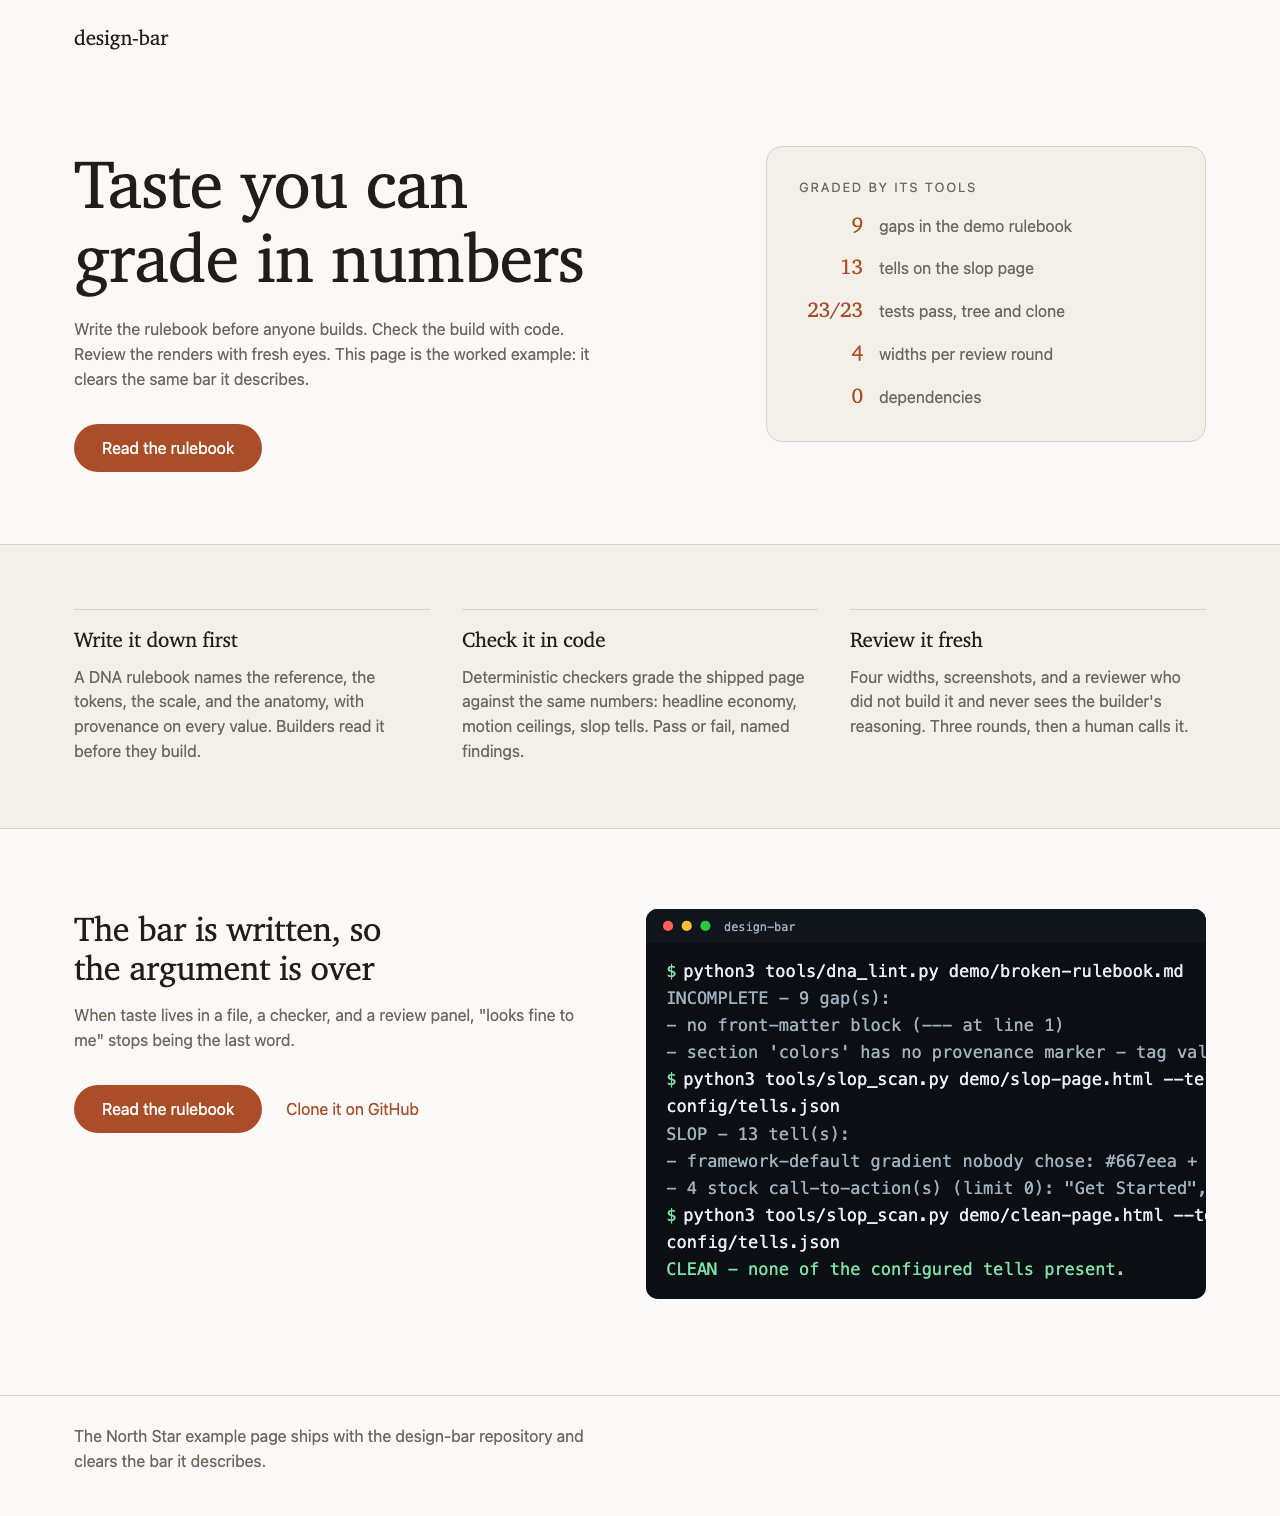
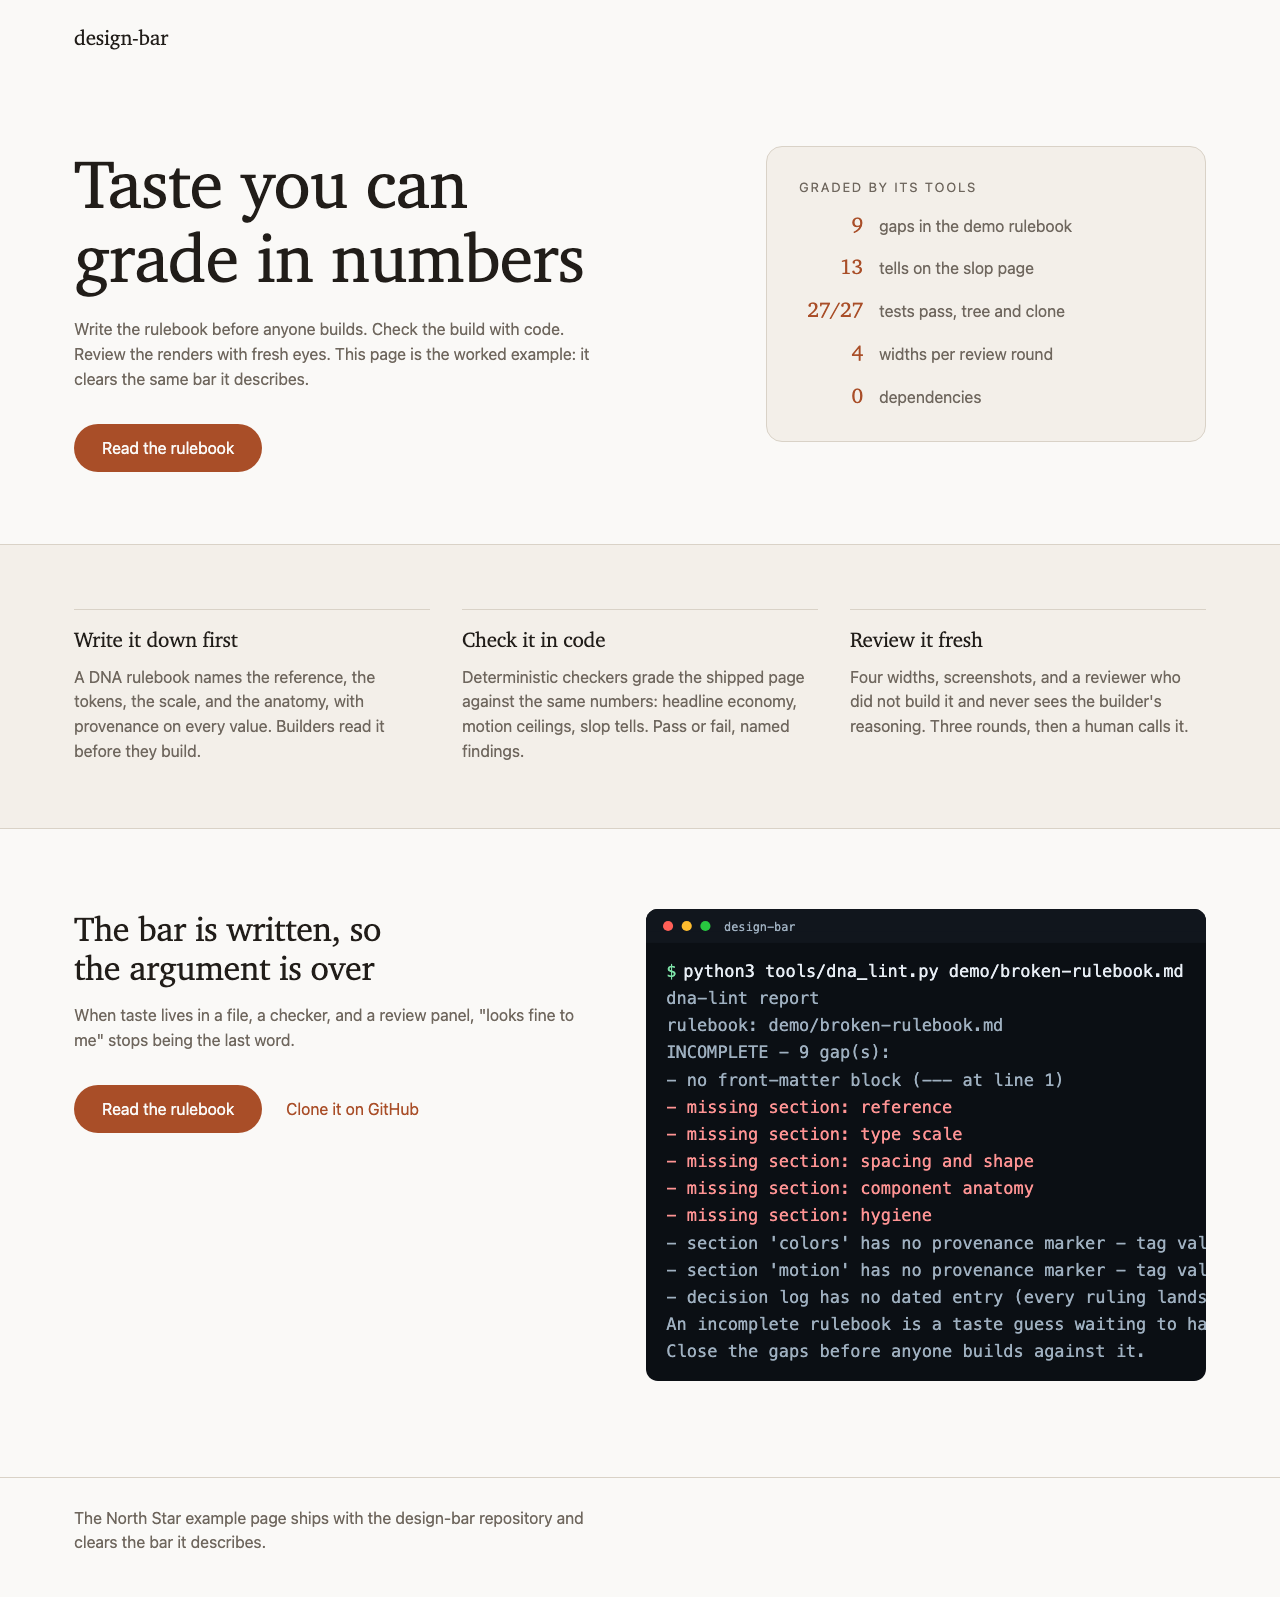
fix: the demo page's test count follows the suite (23 to 27)
The page grades this repo by its own tools, and one of its numbers is
the test count. The suite grew to 27 with the version-constants test
and the two demo-receipt tests, so the page claimed 23/23 while the CI
step that checks the claim against the real count failed locally.

The number now reads 27/27, and the page screenshot was re-captured
with the repo's own capture script at 1280 and checked by its own shot
guard (bottom row uniform, exit 0), so page and picture agree. The
page's alt text for the embedded terminal picture now describes the
session that picture actually shows. No layout, color or type change.

diff --git a/demo/clean-page.html b/demo/clean-page.html
@@ -170,7 +170,7 @@
         <ul class="proof-rows">
           <li><span class="proof-n display">9</span><span>gaps in the demo rulebook</span></li>
           <li><span class="proof-n display">13</span><span>tells on the slop page</span></li>
-          <li><span class="proof-n display">23/23</span><span>tests pass, tree and clone</span></li>
+          <li><span class="proof-n display">27/27</span><span>tests pass, tree and clone</span></li>
           <li><span class="proof-n display">4</span><span>widths per review round</span></li>
           <li><span class="proof-n display">0</span><span>dependencies</span></li>
         </ul>
@@ -211,7 +211,7 @@
         </div>
       </div>
       <figure class="close-figure">
-        <img src="terminal.svg" alt="Terminal session: dna_lint refuses the vague demo rulebook with nine named gaps, slop_scan catches thirteen tells on the slop page, and this page passes with CLEAN.">
+        <img src="terminal.svg" alt="Terminal session: dna_lint is run on the vague demo rulebook and refuses it, naming all nine gaps, from the missing front-matter block to the decision log with no dated entry.">
       </figure>
     </div>
   </section>

diff --git a/CHANGELOG.md b/CHANGELOG.md
@@ -11,6 +11,7 @@ The format follows [Keep a Changelog](https://keepachangelog.com/en/1.1.0/).
 
 ### Fixed
 - The demo transcript now carries the full output and real exit code of every walkthrough command, recorded from a real run and held there by a test that replays them; the terminal picture shows the first of those commands complete.
+- The demo page's test-count claim reads 27/27, the real size of the suite, and its screenshot was re-captured from the fixed page.
 
 ## [1.1.0](https://github.com/eliferres/design-bar/releases/tag/v1.1.0) - 2026-09-03
 
